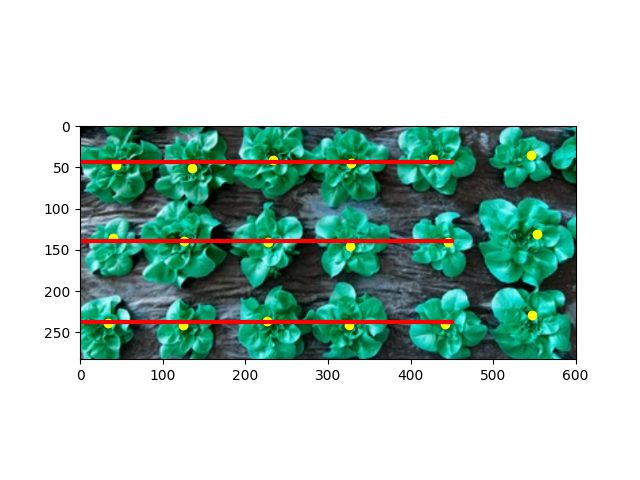
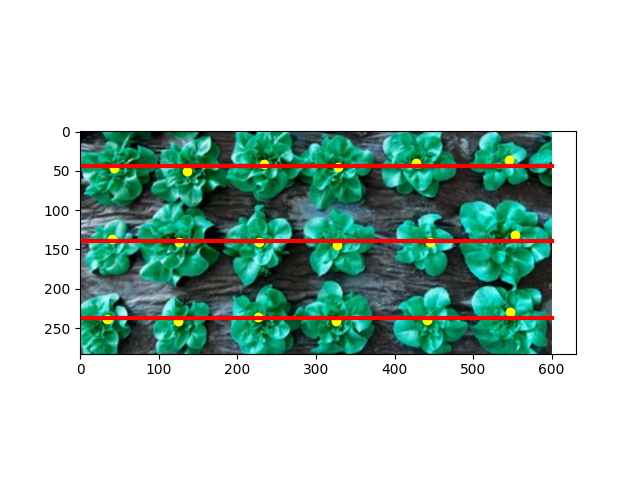
img size parameter in line draw

Changed region(s): [[0.0625, 0.25, 0.9062, 0.8125]]

diff --git a/Edge_Compute/prototype for plant finder.py b/Edge_Compute/prototype for plant finder.py
@@ -11,7 +11,7 @@ img,edge_image_good,edge_image_simple=detect_edges(filename,path,thres1=150,thre
 t2=time.time()
 edge_point_list_good=edge_image_to_edge_points_np_list(edge_image_good)
 edge_point_list_simple=edge_image_to_edge_points_np_list(edge_image_simple) #takes filtered image and returns a list of all the white pixels (so any coordinate where part of an edge is present)
-test_cases=range(16,20) #set the possible cases for plant multitude (the algorithm will check for each number and find the best match, use as smaller range as possible and preferably weighted to the left to improve performance)
+test_cases=range(2,20) #set the possible cases for plant multitude (the algorithm will check for each number and find the best match, use as smaller range as possible and preferably weighted to the left to improve performance)
 t3=time.time()
 wcss=check_cluster_multitudes(test_cases,edge_point_list_simple) #gets error list from trying all possible test cases
 #plot_cluster_graph(test_cases, wcss) #plots error list to get idea of elbo graph

diff --git a/Edge_Compute/clustering_utils.py b/Edge_Compute/clustering_utils.py
@@ -42,10 +42,11 @@ def find_centroids(edge_point_list,n):
 
 
 def plot_image_with_centers_lines(img,path,centers_x,centers_y,_,lines_y):
+    image_x_length=img.shape[1]
     plt.imshow(img)
     plt.plot(centers_x,centers_y,'o',color='yellow')
     for line in lines_y:
-        p1 = [0, 450]
+        p1 = [0, image_x_length]
         p2 = [line, line]
         plt.plot(p1, p2, color="red", linewidth=3)
 
